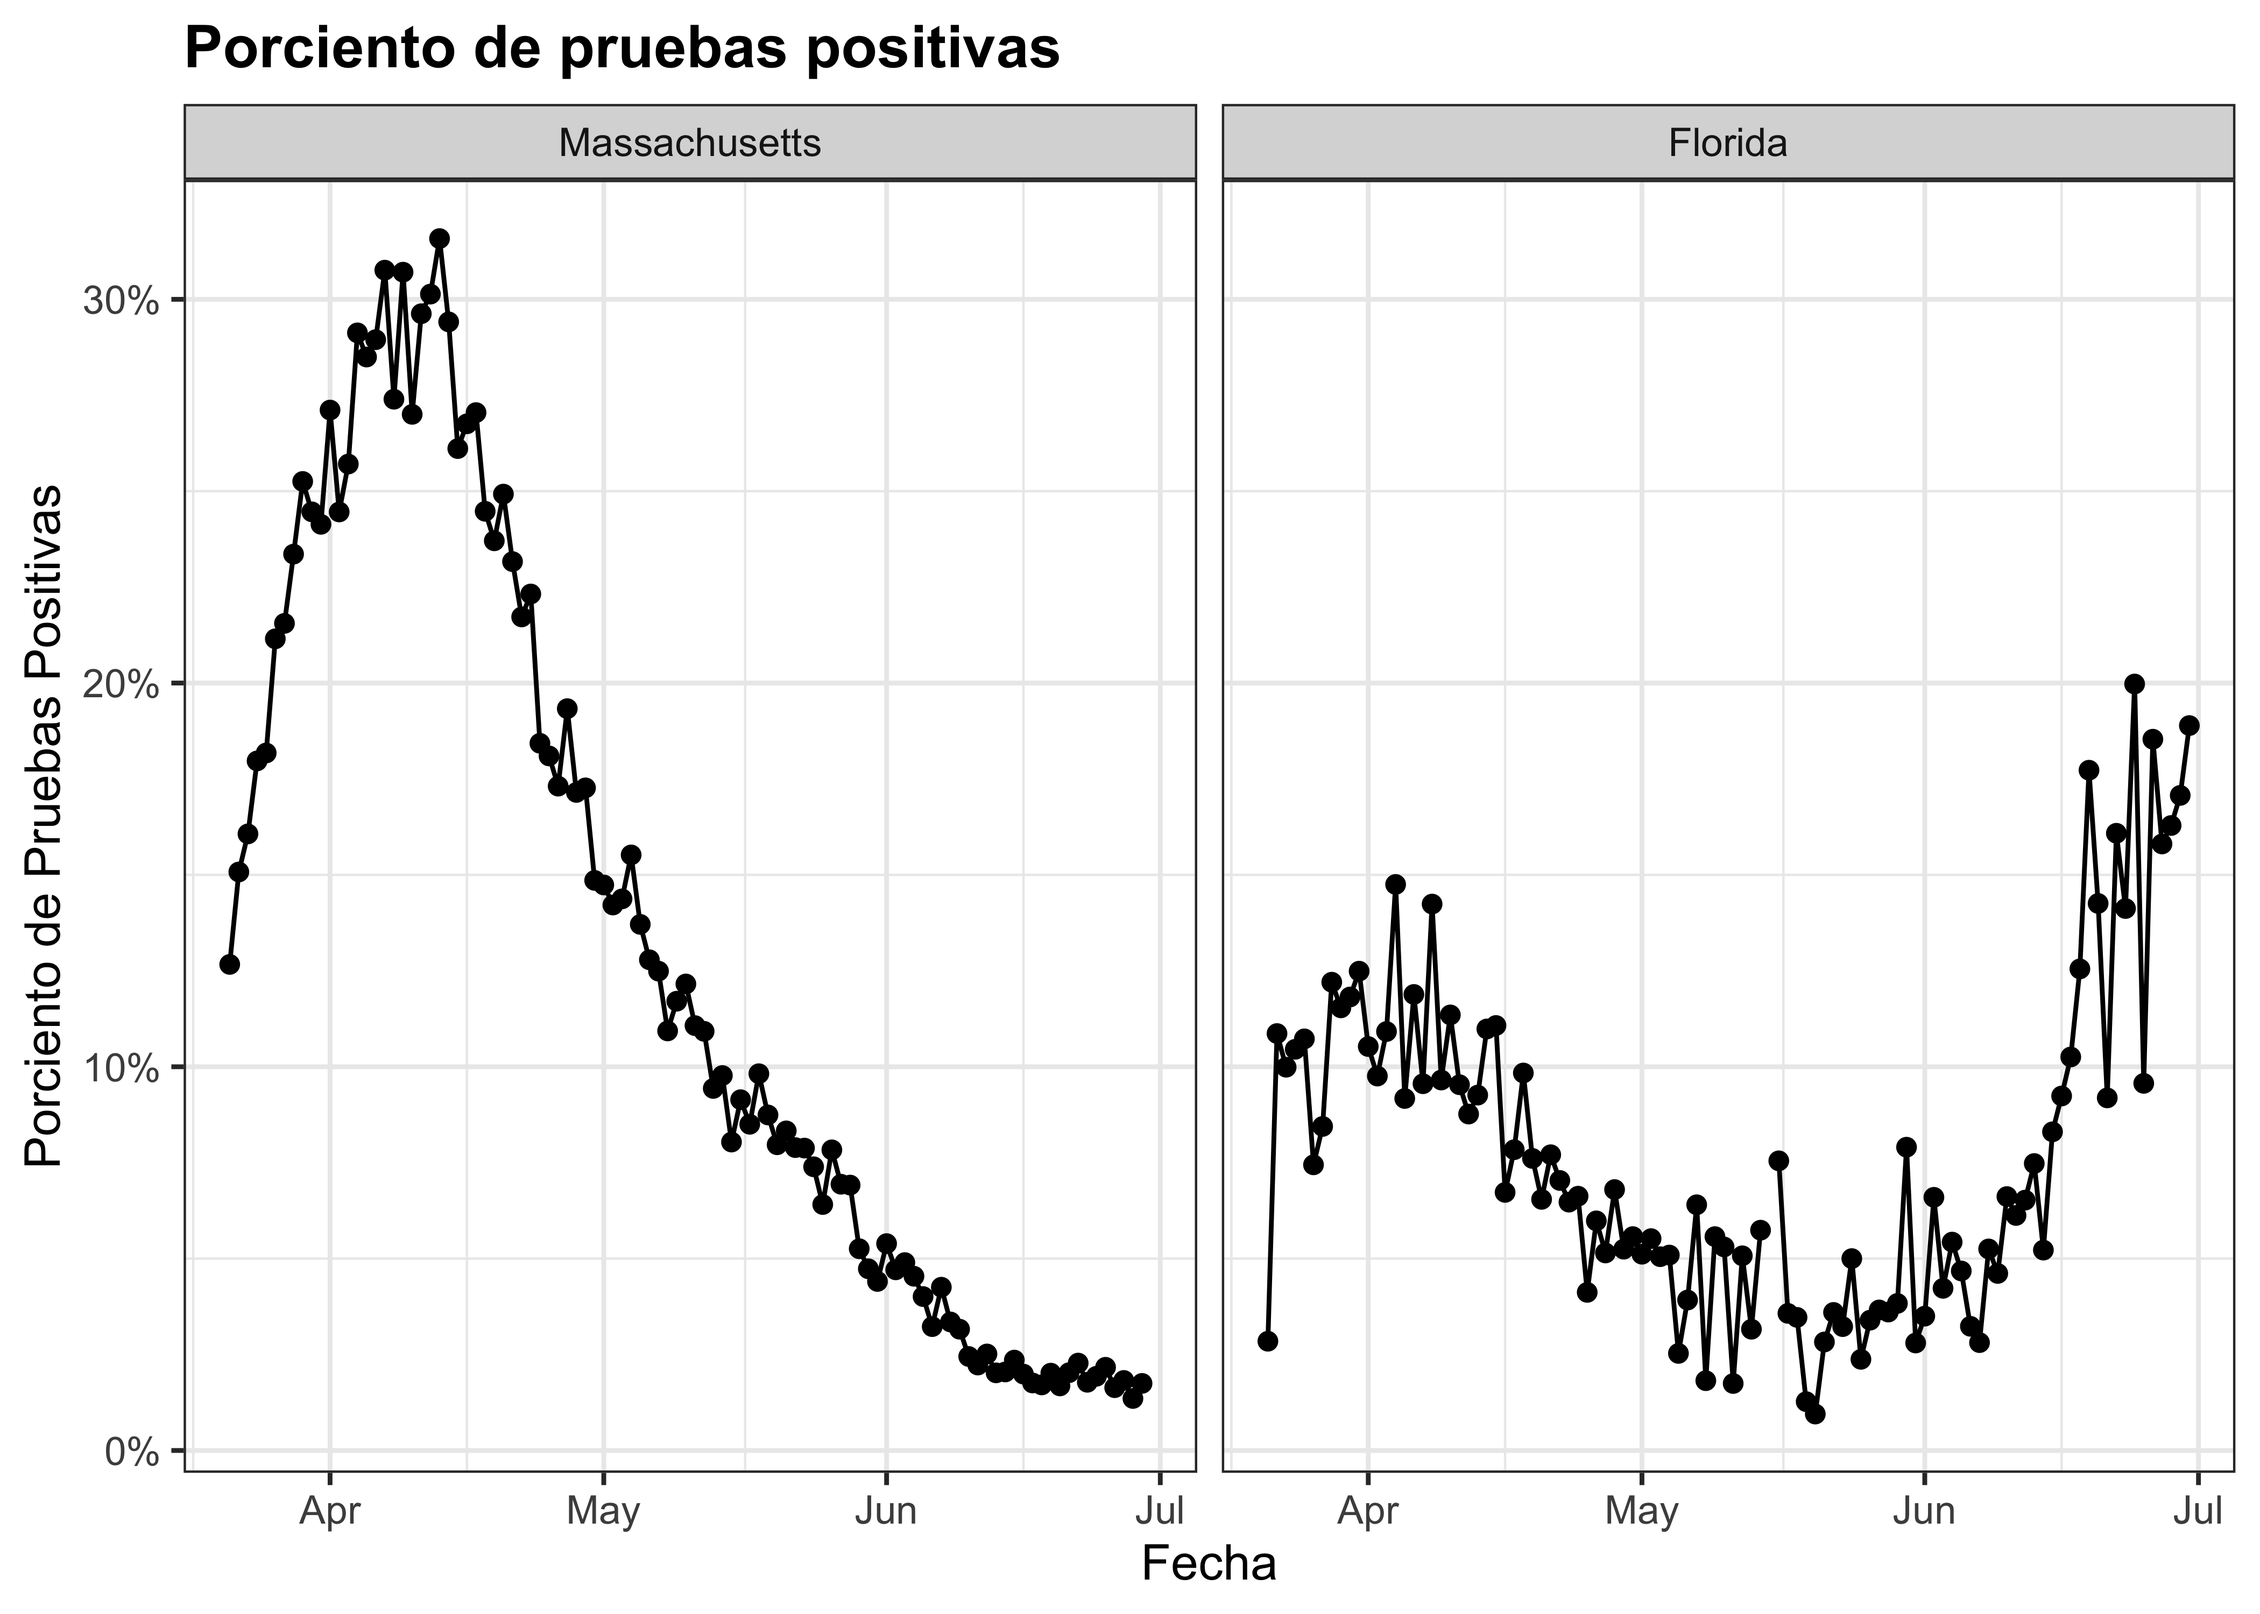
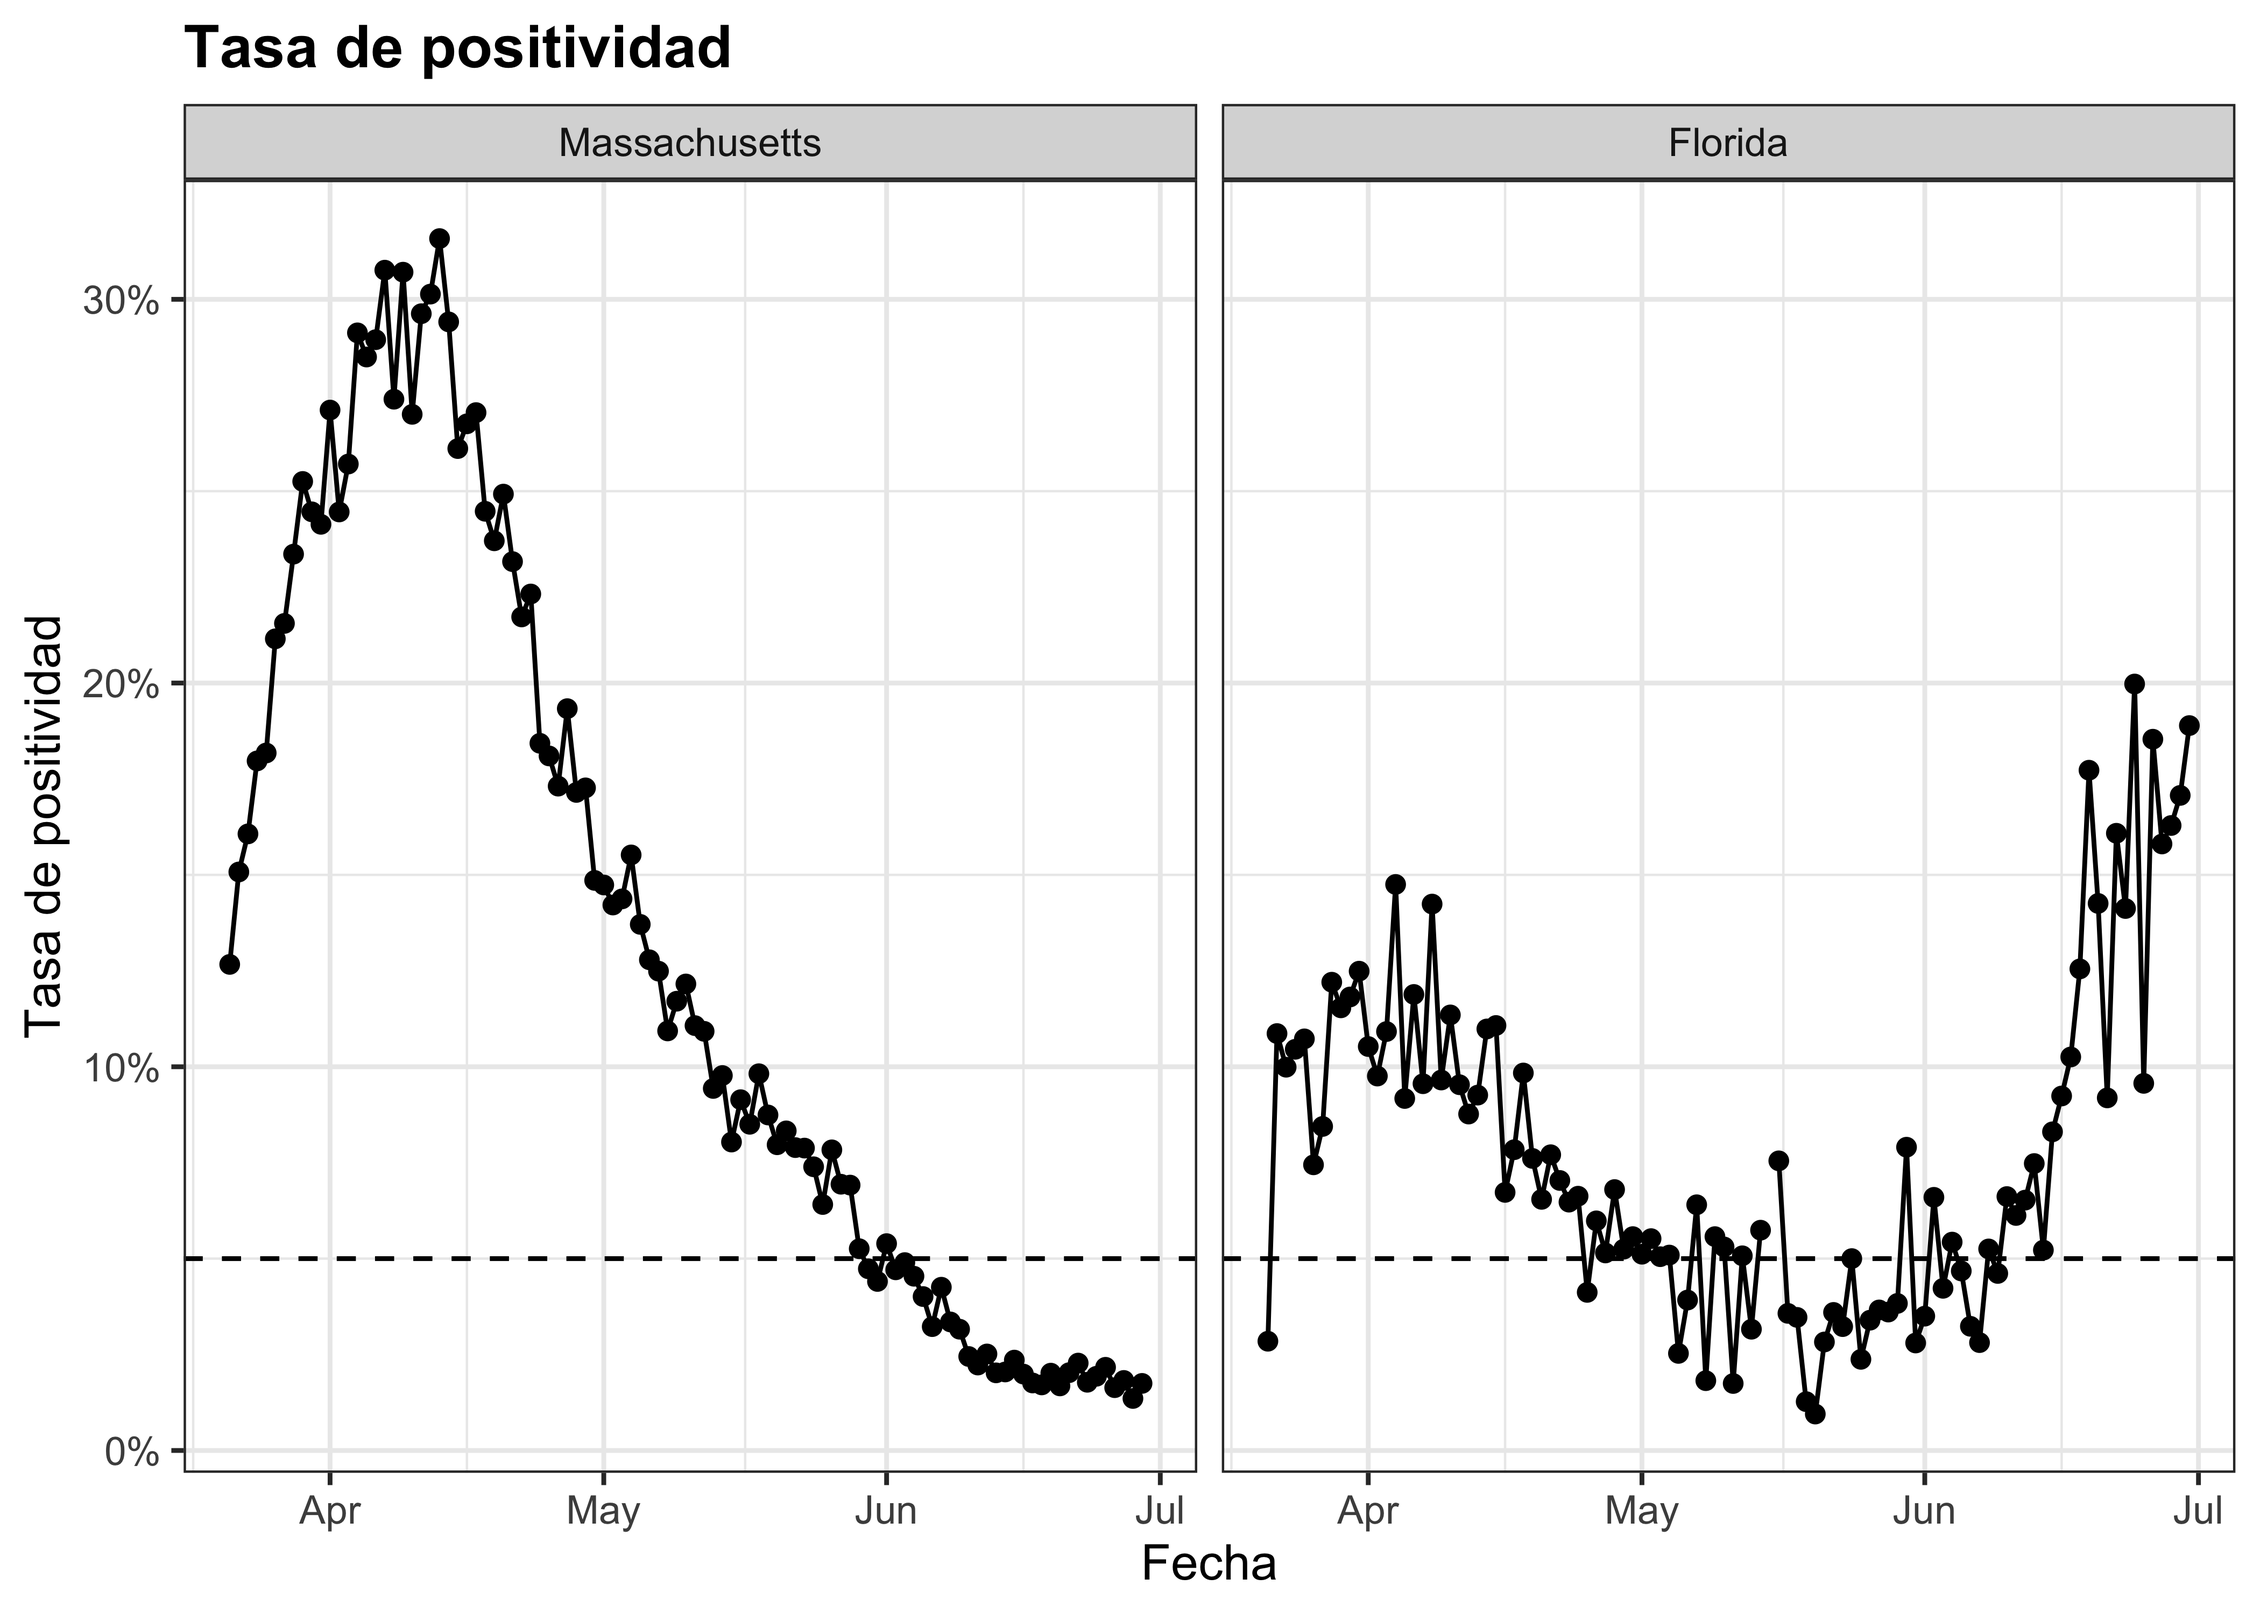
adding files

Changed region(s): [[0.0624, 0.0, 0.4679, 0.062], [0.0, 0.31, 0.0312, 0.713]]

diff --git a/pr-covid.md b/pr-covid.md
@@ -18,7 +18,9 @@ Massachussets se ha destacado por la gran mejoría y [ayer anunciaron 0
 muertes](https://www.bostonherald.com/2020/06/30/zero-new-coronavirus-deaths-reported-in-massachusetts-after-data-cleaning/)
 por primera vez desde marzo. La epidemióloga del estado usa el
 **porciento**, no el total, de casos positivos por día como el
-instrumento principal de monitoreo.
+instrumento principal de monitoreo. La Organización Mundial de la Salud
+(WHO) aconseja que antes de reabrir, las tasas de positividad deberían
+permanecer en 5% o menos por al menos 14 días.
 
 Aunque el gobierno de Puerto Rico no comparte estos datos, Puerto Rico
 Science Trust (PRST) recoge esta información semanalmente de los
@@ -29,7 +31,7 @@ semanales. Aquí mostramos algunas gráficas.
 
 ## El patrón en Puerto Rico es parecido al de Nueva Zelandia
 
-Las buenas noticias son que, basado en estos datos, parece que lis
+Las buenas noticias son que, basado en estos datos, parece que los
 efectos de la pandemia han sido muy leves en Puerto Rico. En la
 siguiente gráfica vemos los porcentajes de pruebas positivas por semana
 para Massachusetts, Nueva Zelandia y Puerto Rico. Vemos que el patrón en
@@ -55,7 +57,14 @@ preocupantemente.
 
 ![](pr-covid_files/figure-gfm/fl-ma-1.png)<!-- -->
 
-## Exploración de los datos de Puerto Rico
+## La tasa para las pruebas serologicas es diferente
+
+Aquí definimos la tasa de positividad usando casos confirmados con
+pruebas moleculars (PCR). Las pruebas serologicas resultan en tasas
+diferentes. Aquí un ejemplo con Massachusetts:
+
+![](pr-covid_files/figure-gfm/serology-1.png)<!-- --> \#\# Exploración
+de los datos de Puerto Rico
 
 Los datos de Puerto Rico tienen algunas deficiencias. Por ejemplo los
 totales reportados semanalmente no cuadran con los totales acumulados
